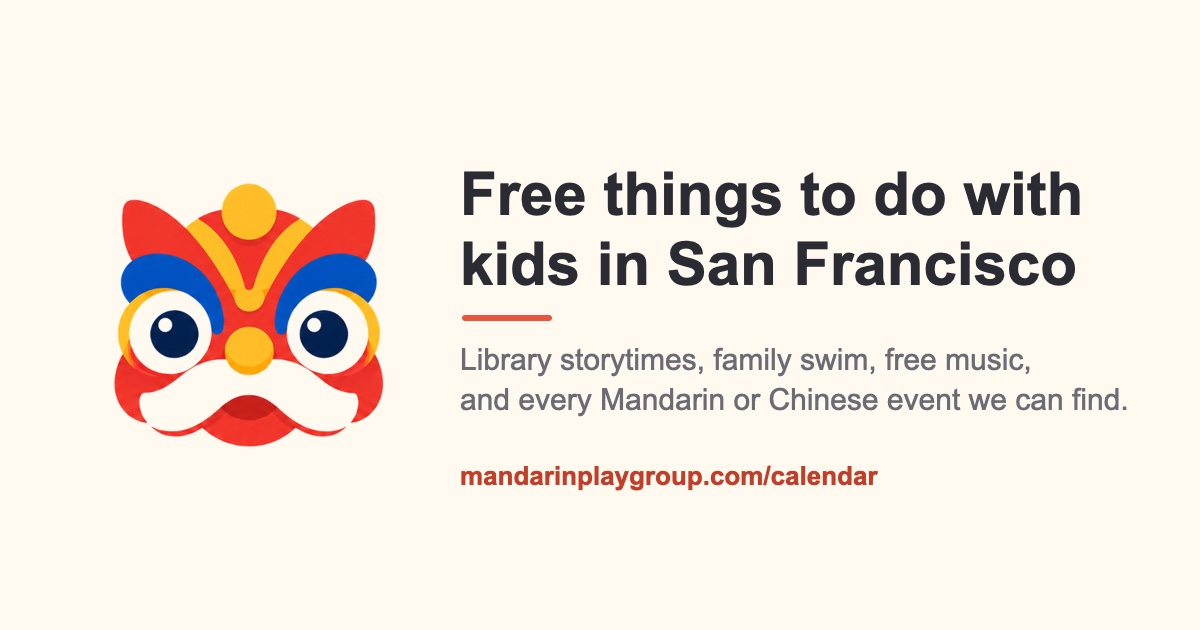
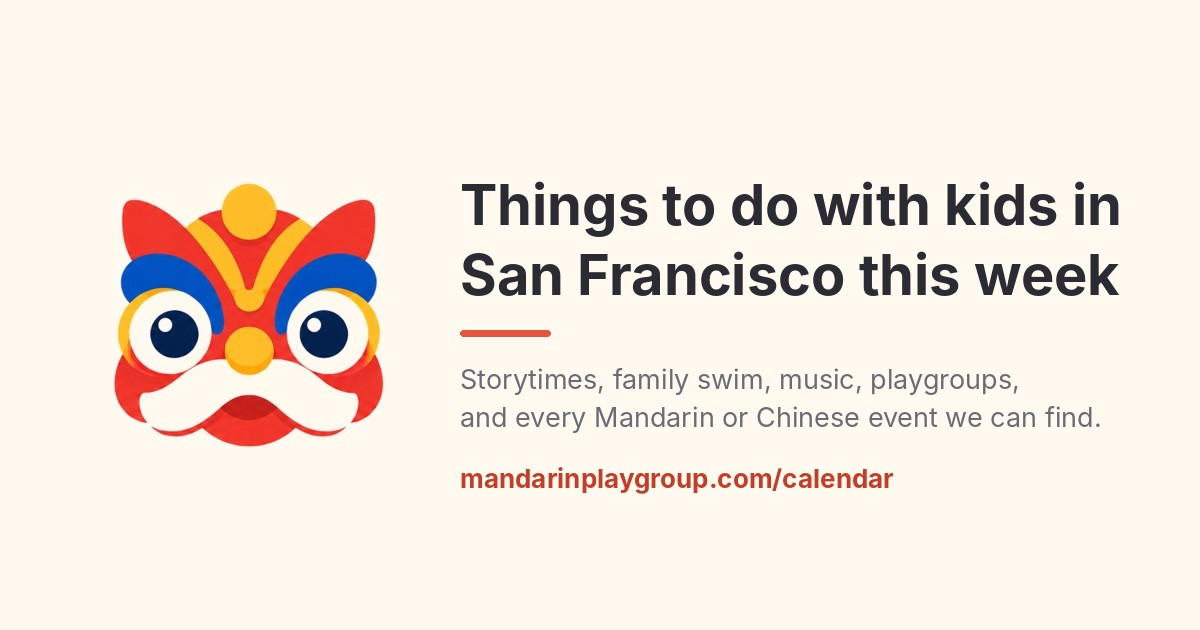
Calendar: new headline without cost framing, refreshed share image (#4)
Claude-Session: https://claude.ai/code/session_01TmA6vNRVdWEXdt86Xgo4HB

Changed region(s): [[0.37, 0.2714, 0.9558, 0.6937], [0.37, 0.7238, 0.74, 0.7841]]

diff --git a/calendar.html b/calendar.html
@@ -5,7 +5,7 @@
 <meta name="viewport" content="width=device-width, initial-scale=1">
 
 <title>Mandarin &amp; Chinese Events for Kids in San Francisco — Weekly Calendar</title>
-<meta name="description" content="A weekly calendar of free and low-cost things to do with kids in San Francisco — library storytimes, outdoor music, and playgroups. Every Mandarin and Chinese cultural event we can find, marked with a lantern.">
+<meta name="description" content="Things to do with kids in San Francisco this week — library storytimes, family swim, outdoor music, and playgroups. Every Mandarin and Chinese cultural event we can find, marked with a lantern.">
 <link rel="canonical" href="https://mandarinplaygroup.com/calendar">
 
 <!-- Link preview. This is what people see when the calendar gets shared in a
@@ -14,9 +14,9 @@
 <meta property="og:type" content="website">
 <meta property="og:site_name" content="Mandarin Playgroup">
 <meta property="og:url" content="https://mandarinplaygroup.com/calendar">
-<meta property="og:title" content="Free and low-cost things to do with kids in San Francisco">
+<meta property="og:title" content="Things to do with kids in San Francisco this week">
 <meta property="og:description" content="A weekly calendar of storytimes, music, and playgroups — plus every Mandarin and Chinese cultural event we can find.">
-<meta property="og:image" content="https://mandarinplaygroup.com/og-calendar.jpg">
+<meta property="og:image" content="https://mandarinplaygroup.com/og-calendar.jpg?v=2">
 <meta property="og:image:width" content="1200">
 <meta property="og:image:height" content="630">
 <meta name="twitter:card" content="summary_large_image">
@@ -5858,12 +5858,9 @@ body{
 
   <div class="pg-hero">
     <p class="pg-eyebrow">San Francisco</p>
-    <h1 class="pg-h1">Free and low-cost things to do with kids in San Francisco</h1>
-    <p class="pg-sub">Plus every Mandarin and Chinese cultural event we can find.</p>
-    <p class="pg-lede">
-      Library storytimes, outdoor music, family swim, and playgroups — one week at a glance,
-      updated twice a day. Look for the lantern.
-    </p>
+    <h1 class="pg-h1">Things to do with kids in San Francisco this week</h1>
+    <p class="pg-sub">Storytimes, family swim, music, playgroups, and every Mandarin and Chinese cultural event we can find. Look for the lantern.</p>
+    <p class="pg-lede">Updated twice a day.</p>
   </div>
 
   <!-- Crawlable list, replaced by the grid once the script runs. -->
